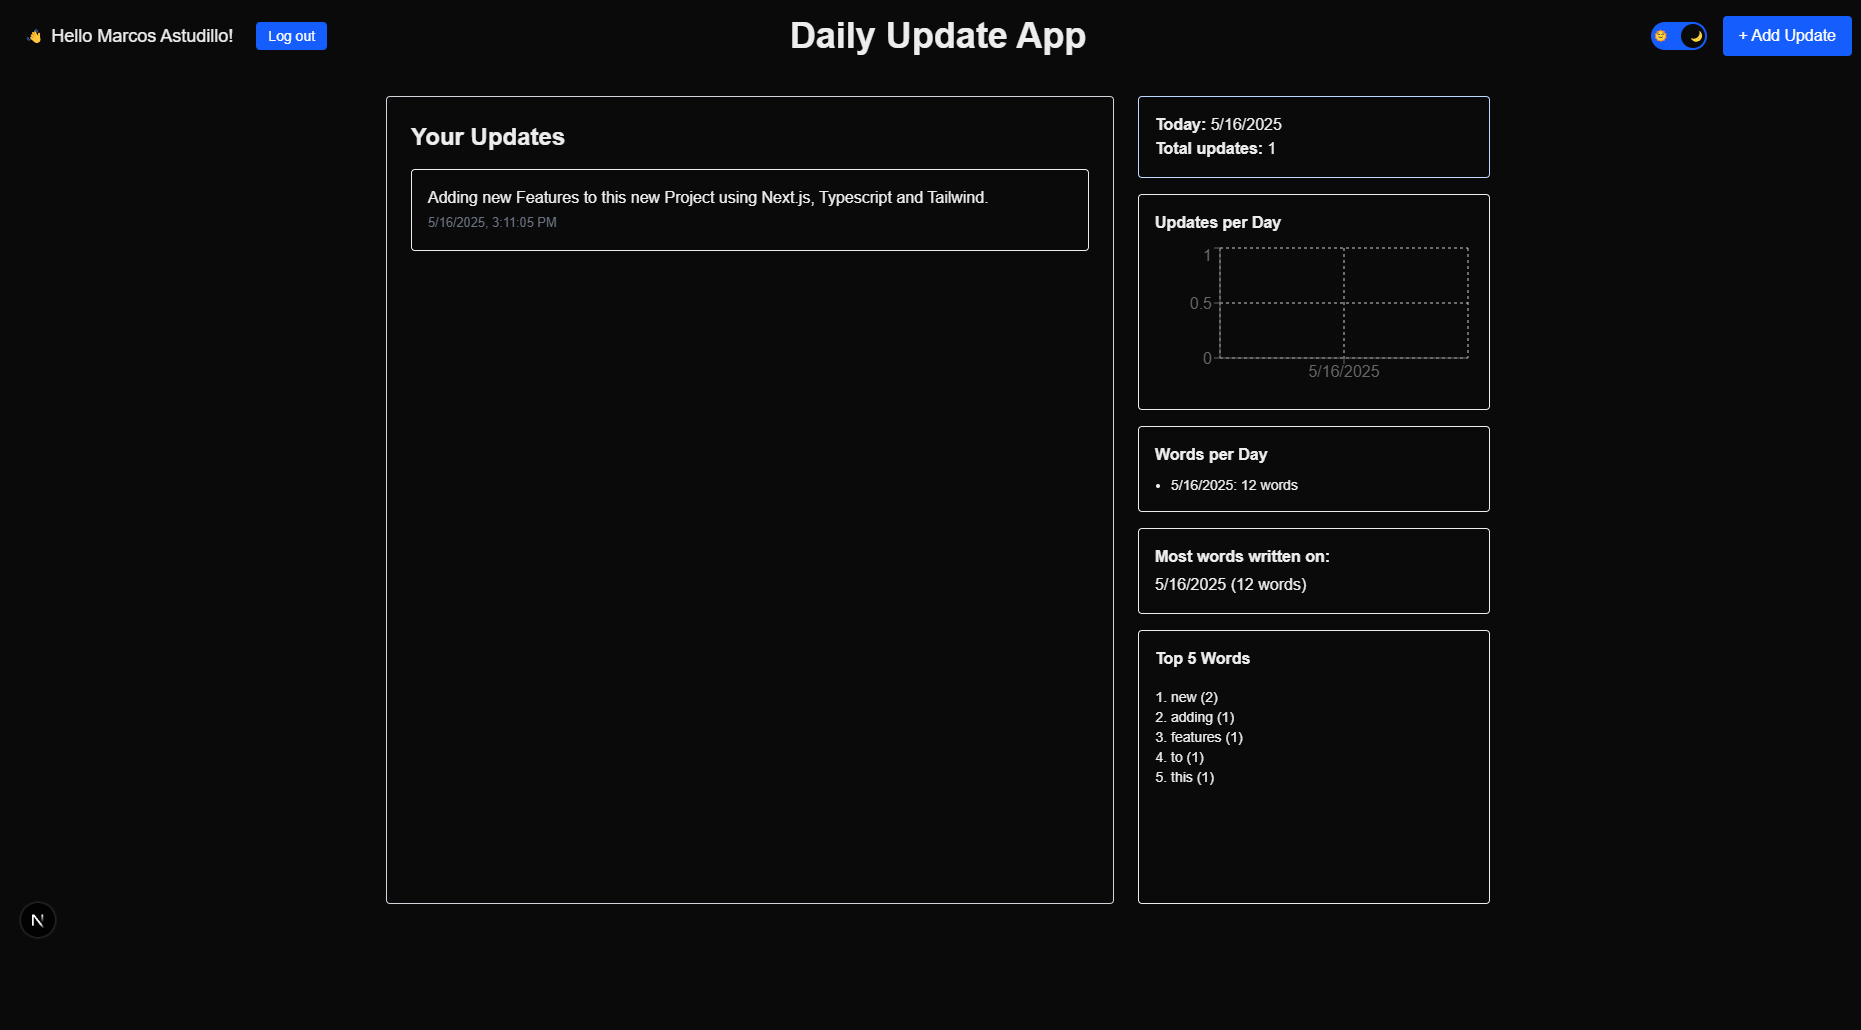
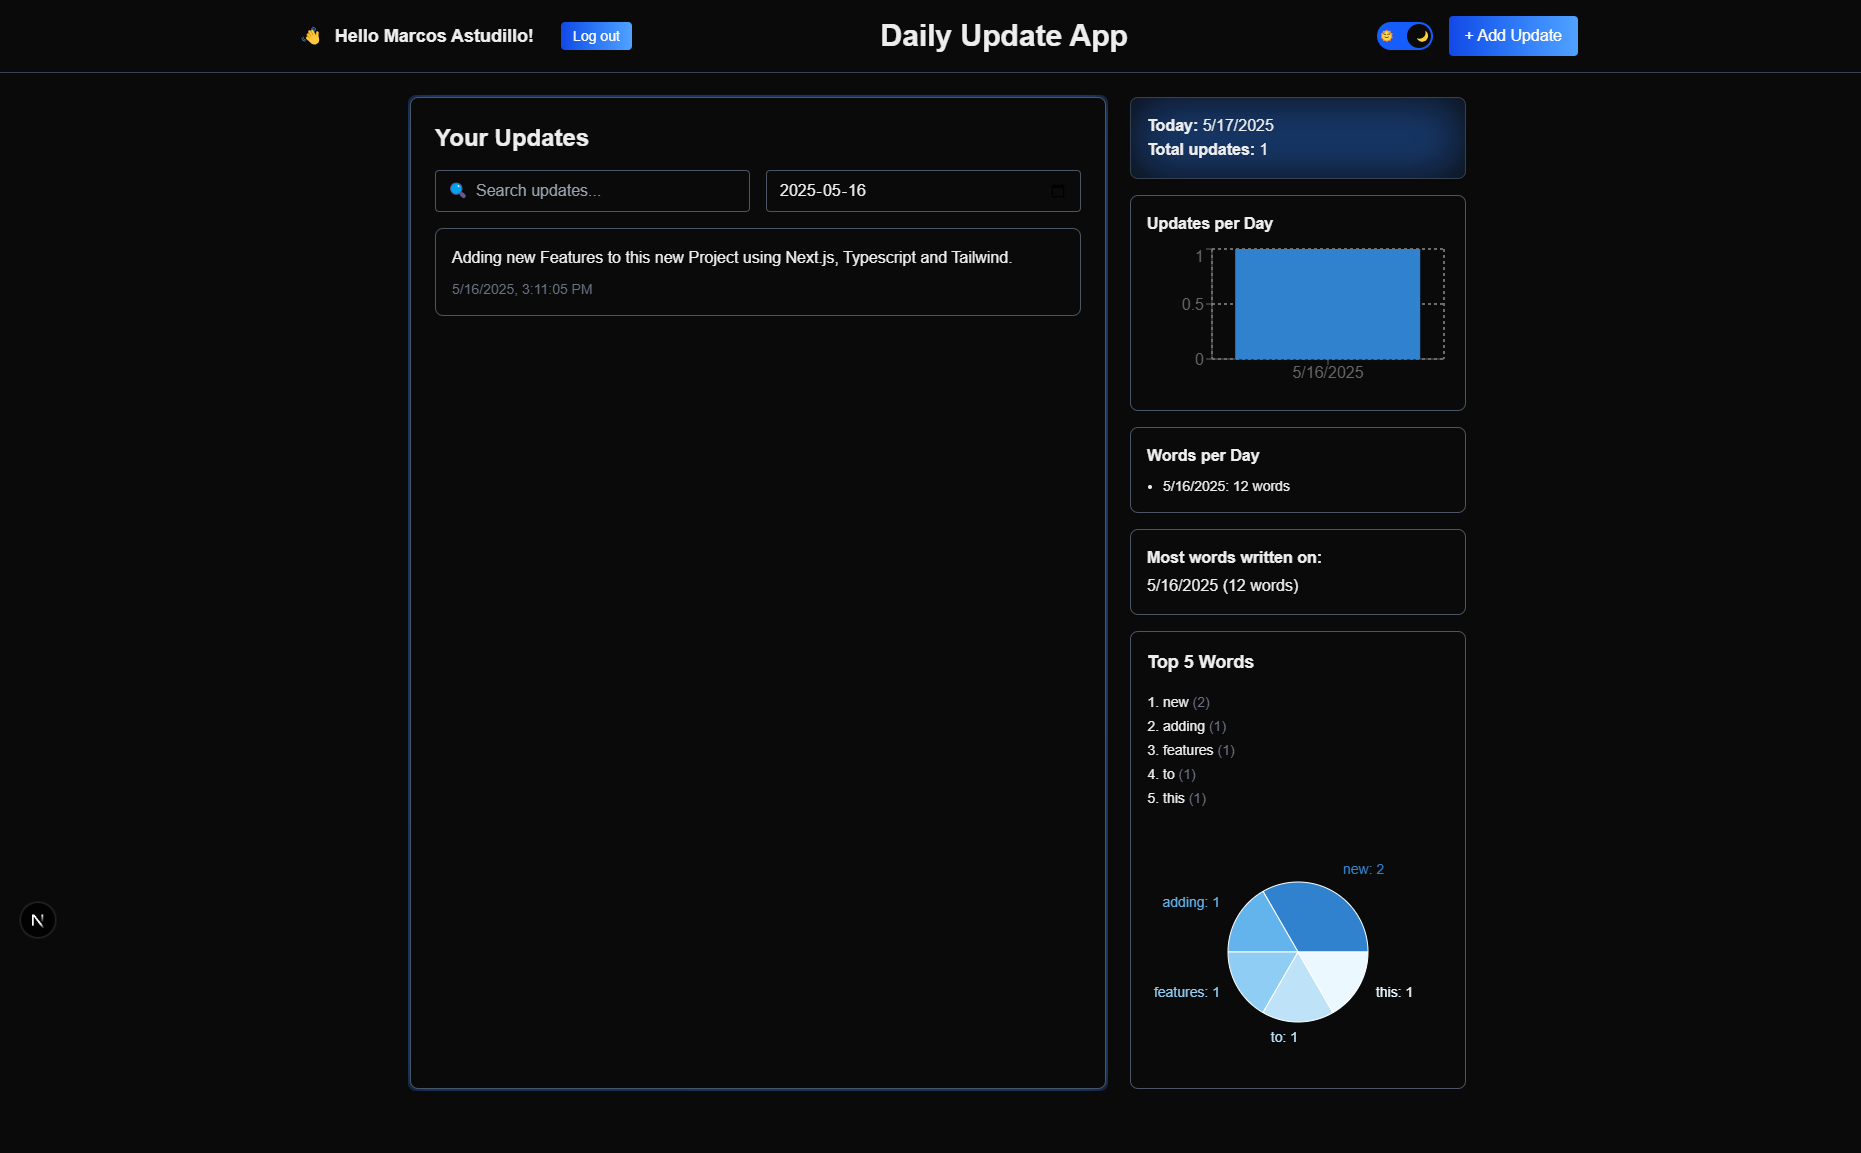
feat: added search items to column 1 in dashboardview, and updated images

Changed region(s): [[0.0312, 0.0, 0.9973, 0.901], [0.2182, 0.932, 0.2493, 0.9631]]

diff --git a/src/components/DashboardView.tsx b/src/components/DashboardView.tsx
@@ -30,6 +30,8 @@ export default function Dashboard({ refresh, onAddClick }: Props) {
   const [maxWordDay, setMaxWordDay] = useState<string | null>(null)
   const [today, setToday] = useState('')
   const { userId } = useAuth()
+  const [filter, setFilter] = useState('');
+  const [filterDate, setFilterDate] = useState('');
 
   useEffect(() => {
     const date = new Date().toLocaleDateString()
@@ -123,6 +125,29 @@ export default function Dashboard({ refresh, onAddClick }: Props) {
           {/* Main Content */}
           <div className="relative z-10 flex-grow bg-[var(--background)] text-[var(--foreground)] p-6 rounded-lg shadow border border-gray-300 dark:border-gray-600 w-full flex flex-col">
             <h1 className="text-2xl font-bold mb-4">Your Updates</h1>
+            <div className="grid grid-cols-1 sm:grid-cols-2 gap-4 mb-4">
+              {/* Search input */}
+              <div className="relative">
+                <input
+                  type="text"
+                  value={filter}
+                  onChange={(e) => setFilter(e.target.value)}
+                  placeholder="Search updates..."
+                  className="w-full pl-10 pr-4 py-2 rounded border border-gray-300 dark:border-gray-600 bg-[var(--background)] text-[var(--foreground)] placeholder-gray-400 focus:outline-none focus:ring-2 focus:ring-blue-500 transition"
+                />
+                <span className="absolute left-3 top-1/2 -translate-y-1/2 text-gray-400 pointer-events-none">
+                  🔍
+                </span>
+              </div>
+
+              {/* Date filter */}
+              <input
+                type="date"
+                value={filterDate}
+                onChange={(e) => setFilterDate(e.target.value)}
+                className="w-full px-3 py-2 rounded border border-gray-300 dark:border-gray-600 bg-[var(--background)] text-[var(--foreground)] placeholder-gray-400 focus:outline-none focus:ring-2 focus:ring-blue-500 transition"
+              />
+            </div>
 
             {loading ? (
               <div className="space-y-4 flex-grow">
@@ -149,19 +174,29 @@ export default function Dashboard({ refresh, onAddClick }: Props) {
               </div>
             ) : (
               <ul className="flex flex-col gap-4 flex-grow">
-                {updates.map((update) => (
-                  <li
-                    key={update.id}
-                    className="border border-gray-300 dark:border-gray-600 p-4 rounded-lg shadow-sm transition-all duration-200 hover:scale-[1.02] hover:shadow-md hover:border-blue-400 dark:hover:border-blue-500 bg-[var(--background)] text-[var(--foreground)] animate-fade-in"
-                  >
-                    <p className="text-base leading-relaxed">
-                      {update.content}
-                    </p>
-                    <small className="text-sm text-gray-500 block mt-2">
-                      {new Date(update.createdAt).toLocaleString()}
-                    </small>
-                  </li>
-                ))}
+                {updates
+                  .filter((u) => {
+                    const matchesText = u.content.toLowerCase().includes(filter.toLowerCase());
+                    const matchesDate = filterDate
+                      ? new Date(u.createdAt).toISOString().slice(0, 10) === filterDate
+                      : true;
+
+                    return matchesText && matchesDate;
+                  })
+                  .map((update) => (
+                    <li
+                      key={update.id}
+                      className="border border-gray-300 dark:border-gray-600 p-4 rounded-lg shadow-sm transition-all duration-200 hover:scale-[1.02] hover:shadow-md hover:border-blue-400 dark:hover:border-blue-500 bg-[var(--background)] text-[var(--foreground)] animate-fade-in"
+                    >
+                      <p className="text-base leading-relaxed">
+                        {update.content}
+                      </p>
+                      <small className="text-sm text-gray-500 block mt-2">
+                        {new Date(update.createdAt).toLocaleString()}
+                      </small>
+                    </li>
+                  ))}
+
               </ul>
             )}
           </div>
@@ -171,7 +206,7 @@ export default function Dashboard({ refresh, onAddClick }: Props) {
           <div className="bg-[var(--background)] text-[var(--foreground)] border border-gray-300 dark:border-gray-700 
             rounded-lg p-4 shadow-md hover:shadow-lg hover:border-blue-400 dark:hover:border-purple-500 
             transition-all duration-300 animate-fade-in relative overflow-hidden">
-            <div className="absolute inset-0 z-0 pointer-events-none blur-xl opacity-40 bg-blue-100 dark:bg-blue-500"/>
+            <div className="absolute inset-0 z-0 pointer-events-none blur-xl opacity-40 bg-blue-100 dark:bg-blue-500" />
             {/* Main Content */}
             <div className="relative z-10">
               <p className="font-medium"><strong>Today:</strong> {today}</p>
